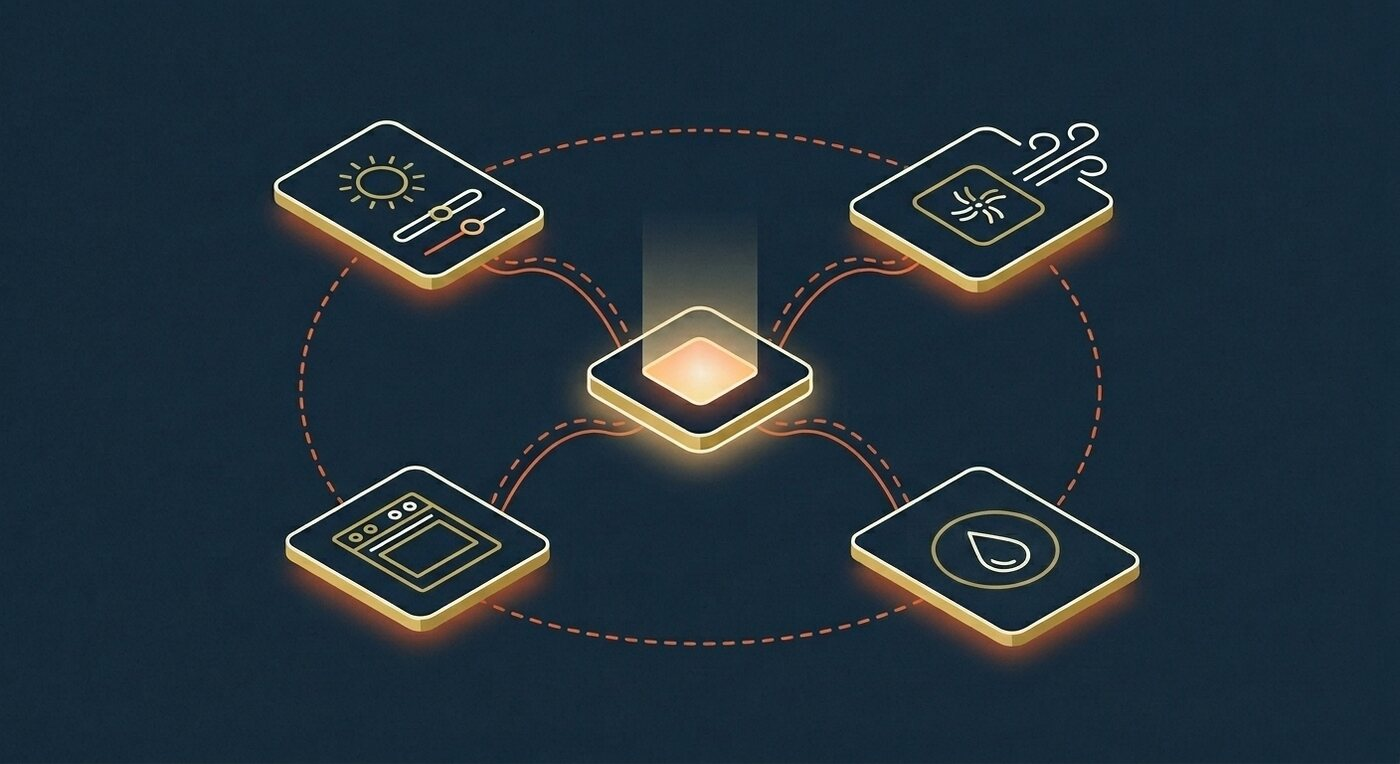
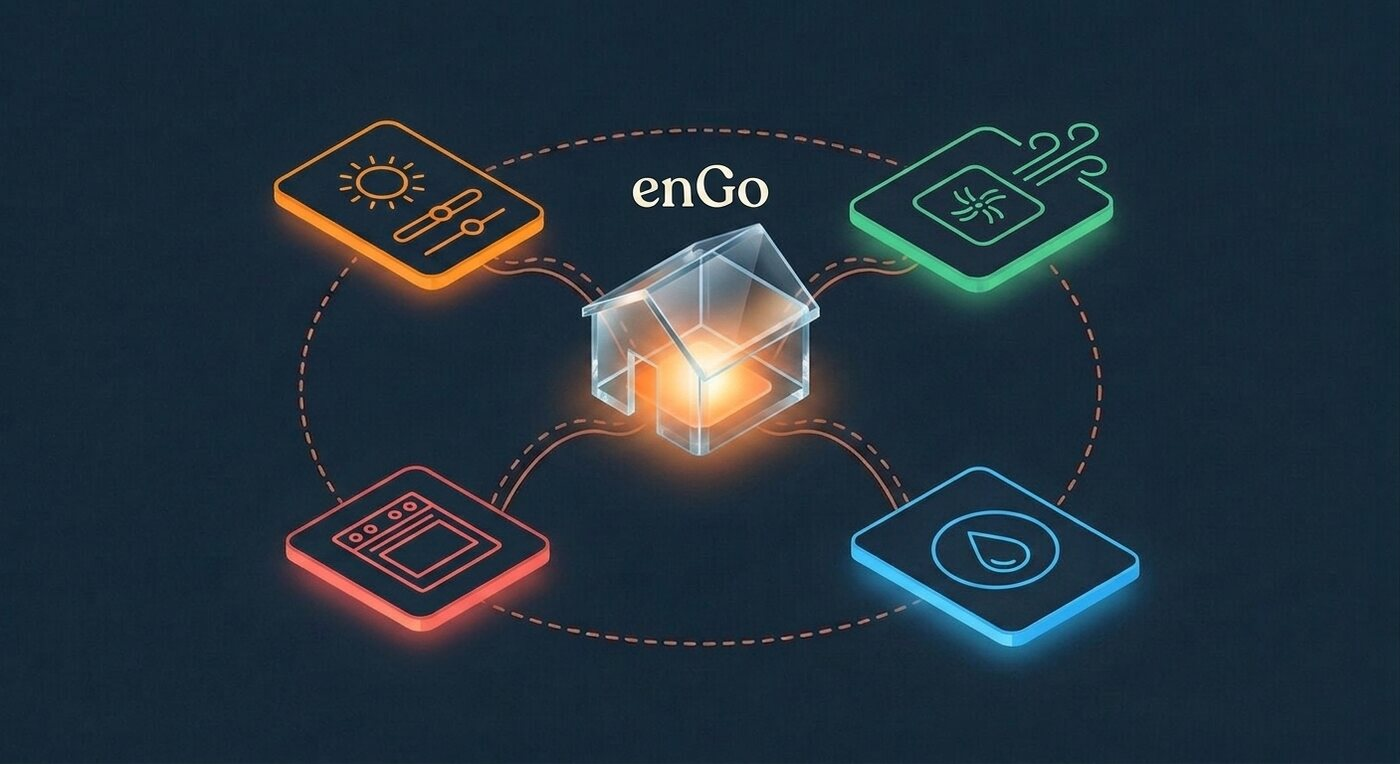
enviro: color-coded pillars + glass-house hub illustration
Illustration re-edited via Gemini reference edit: sun card bright orange
(#FE8B05), air card green (#34c98e), water card blue (#3bbeff), kitchen
card red (#ff5a5a); central diamond replaced with a transparent glass 3D
house glowing warm inside, 'enGo' in cream serif floating above the roof.

Pillar plates now match: each carries a --pc accent driving its numeral
stroke, restored line icon, title color, tick bars, and hover offset frame.

diff --git a/src/views/enviro.vue b/src/views/enviro.vue
@@ -32,8 +32,16 @@
 
     <!-- Four pillars -->
     <div class="ev-pillars">
-      <article v-for="(p, i) in pillars" :key="p.id" class="ev-pillar fade-in">
-        <span class="ev-pillar-num">{{ String(i + 1).padStart(2, '0') }}</span>
+      <article
+        v-for="(p, i) in pillars"
+        :key="p.id"
+        class="ev-pillar fade-in"
+        :style="{ '--pc': p.color }"
+      >
+        <div class="ev-pillar-head">
+          <span class="ev-pillar-num">{{ String(i + 1).padStart(2, '0') }}</span>
+          <svg class="ev-pillar-icon" viewBox="-24 -24 48 48" aria-hidden="true" v-html="p.icon"></svg>
+        </div>
         <h2 class="ev-pillar-title">{{ isZh ? p.title.zh : p.title.en }}</h2>
         <p class="ev-pillar-copy">{{ isZh ? p.copy.zh : p.copy.en }}</p>
         <ul class="ev-pillar-points">
@@ -70,14 +78,26 @@ interface Bi {
 
 interface Pillar {
   id: string
+  color: string // pillar accent — matches its card color in the illustration
+  icon: string // inline SVG fragment, stroke via currentColor
   title: Bi
   copy: Bi
   points: { zh: string[]; en: string[] }
 }
 
+// Simple line icons, stroke-based, colored via CSS currentColor.
+const ICONS: Record<string, string> = {
+  sun: '<circle r="10" fill="none" stroke="currentColor" stroke-width="2.5"/><g stroke="currentColor" stroke-width="2.5" stroke-linecap="round"><line x1="0" y1="-19" x2="0" y2="-14"/><line x1="0" y1="14" x2="0" y2="19"/><line x1="-19" y1="0" x2="-14" y2="0"/><line x1="14" y1="0" x2="19" y2="0"/><line x1="-13" y1="-13" x2="-10" y2="-10"/><line x1="10" y1="10" x2="13" y2="13"/><line x1="-13" y1="13" x2="-10" y2="10"/><line x1="10" y1="-10" x2="13" y2="-13"/></g>',
+  air: '<g fill="none" stroke="currentColor" stroke-width="2.5" stroke-linecap="round"><path d="M -18 -8 H 8 a 7 7 0 1 0 -7 -7"/><path d="M -18 2 H 14 a 7 7 0 1 1 -7 7"/><path d="M -18 12 H 2"/></g>',
+  water: '<path d="M 0 -18 C 8 -6, 14 2, 14 9 a 14 14 0 1 1 -28 0 C -14 2, -8 -6, 0 -18 Z" fill="none" stroke="currentColor" stroke-width="2.5" stroke-linejoin="round"/>',
+  kitchen: '<g fill="none" stroke="currentColor" stroke-width="2.5" stroke-linecap="round"><rect x="-16" y="-2" width="32" height="16" rx="3"/><line x1="-16" y1="-2" x2="16" y2="-2"/><path d="M -8 -8 C -8 -12, -4 -12, -4 -16"/><path d="M 4 -8 C 4 -12, 8 -12, 8 -16"/></g>'
+}
+
 const PILLARS: Pillar[] = [
   {
     id: 'sun',
+    color: '#FE8B05',
+    icon: ICONS.sun,
     title: { zh: '智慧陽光控溫', en: 'Smart daylight & temperature' },
     copy: {
       zh: '動態採光與溫度調節，依日照、時段與人的活動自動連動窗簾、空調與照明，營造舒適節能的空間。',
@@ -90,6 +110,8 @@ const PILLARS: Pillar[] = [
   },
   {
     id: 'air',
+    color: '#34c98e',
+    icon: ICONS.air,
     title: { zh: '空氣淨化監測', en: 'Air purification & monitoring' },
     copy: {
       zh: '全天候 PM2.5、VOC 與氣體監測，串連清風除濕與新風設備，保障室內每一口健康空氣。',
@@ -102,6 +124,8 @@ const PILLARS: Pillar[] = [
   },
   {
     id: 'water',
+    color: '#3bbeff',
+    icon: ICONS.water,
     title: { zh: '智慧水務管理', en: 'Smart water management' },
     copy: {
       zh: '水質過濾與流量優化，濾芯壽命、漏水偵測與用水數據一目瞭然，智慧供水更安全高效。',
@@ -114,6 +138,8 @@ const PILLARS: Pillar[] = [
   },
   {
     id: 'kitchen',
+    color: '#ff5a5a',
+    icon: ICONS.kitchen,
     title: { zh: '智慧廚房安全', en: 'Smart kitchen safety' },
     copy: {
       zh: '遠端監控廚房設備，火災預警、瓦斯偵測與能源優化——安心，從家的心臟開始。',
@@ -271,9 +297,15 @@ export default defineComponent({
     transform: translate(-3px, -3px);
 
     &::before {
-      border-color: $brand-orange;
+      border-color: var(--pc, $brand-orange);
     }
   }
+}
+
+.ev-pillar-head {
+  display: flex;
+  align-items: center;
+  justify-content: space-between;
 }
 
 .ev-pillar-num {
@@ -281,14 +313,20 @@ export default defineComponent({
   font-weight: 900;
   font-size: 1.7rem;
   color: transparent;
-  -webkit-text-stroke: 1.5px $orange2;
+  -webkit-text-stroke: 1.5px var(--pc, $orange2);
+}
+
+.ev-pillar-icon {
+  width: 44px;
+  height: 44px;
+  color: var(--pc, $orange2);
 }
 
 .ev-pillar-title {
   font-family: 'Noto Serif TC', serif;
   font-weight: 900;
   font-size: clamp(1.35rem, 2.6vw, 1.75rem);
-  color: $warm-bg-light;
+  color: var(--pc, $warm-bg-light);
   margin: 10px 0 12px;
 }
 
@@ -318,7 +356,7 @@ export default defineComponent({
       top: 1em;
       width: 8px;
       height: 2px;
-      background: $orange2;
+      background: var(--pc, $orange2);
     }
   }
 }
